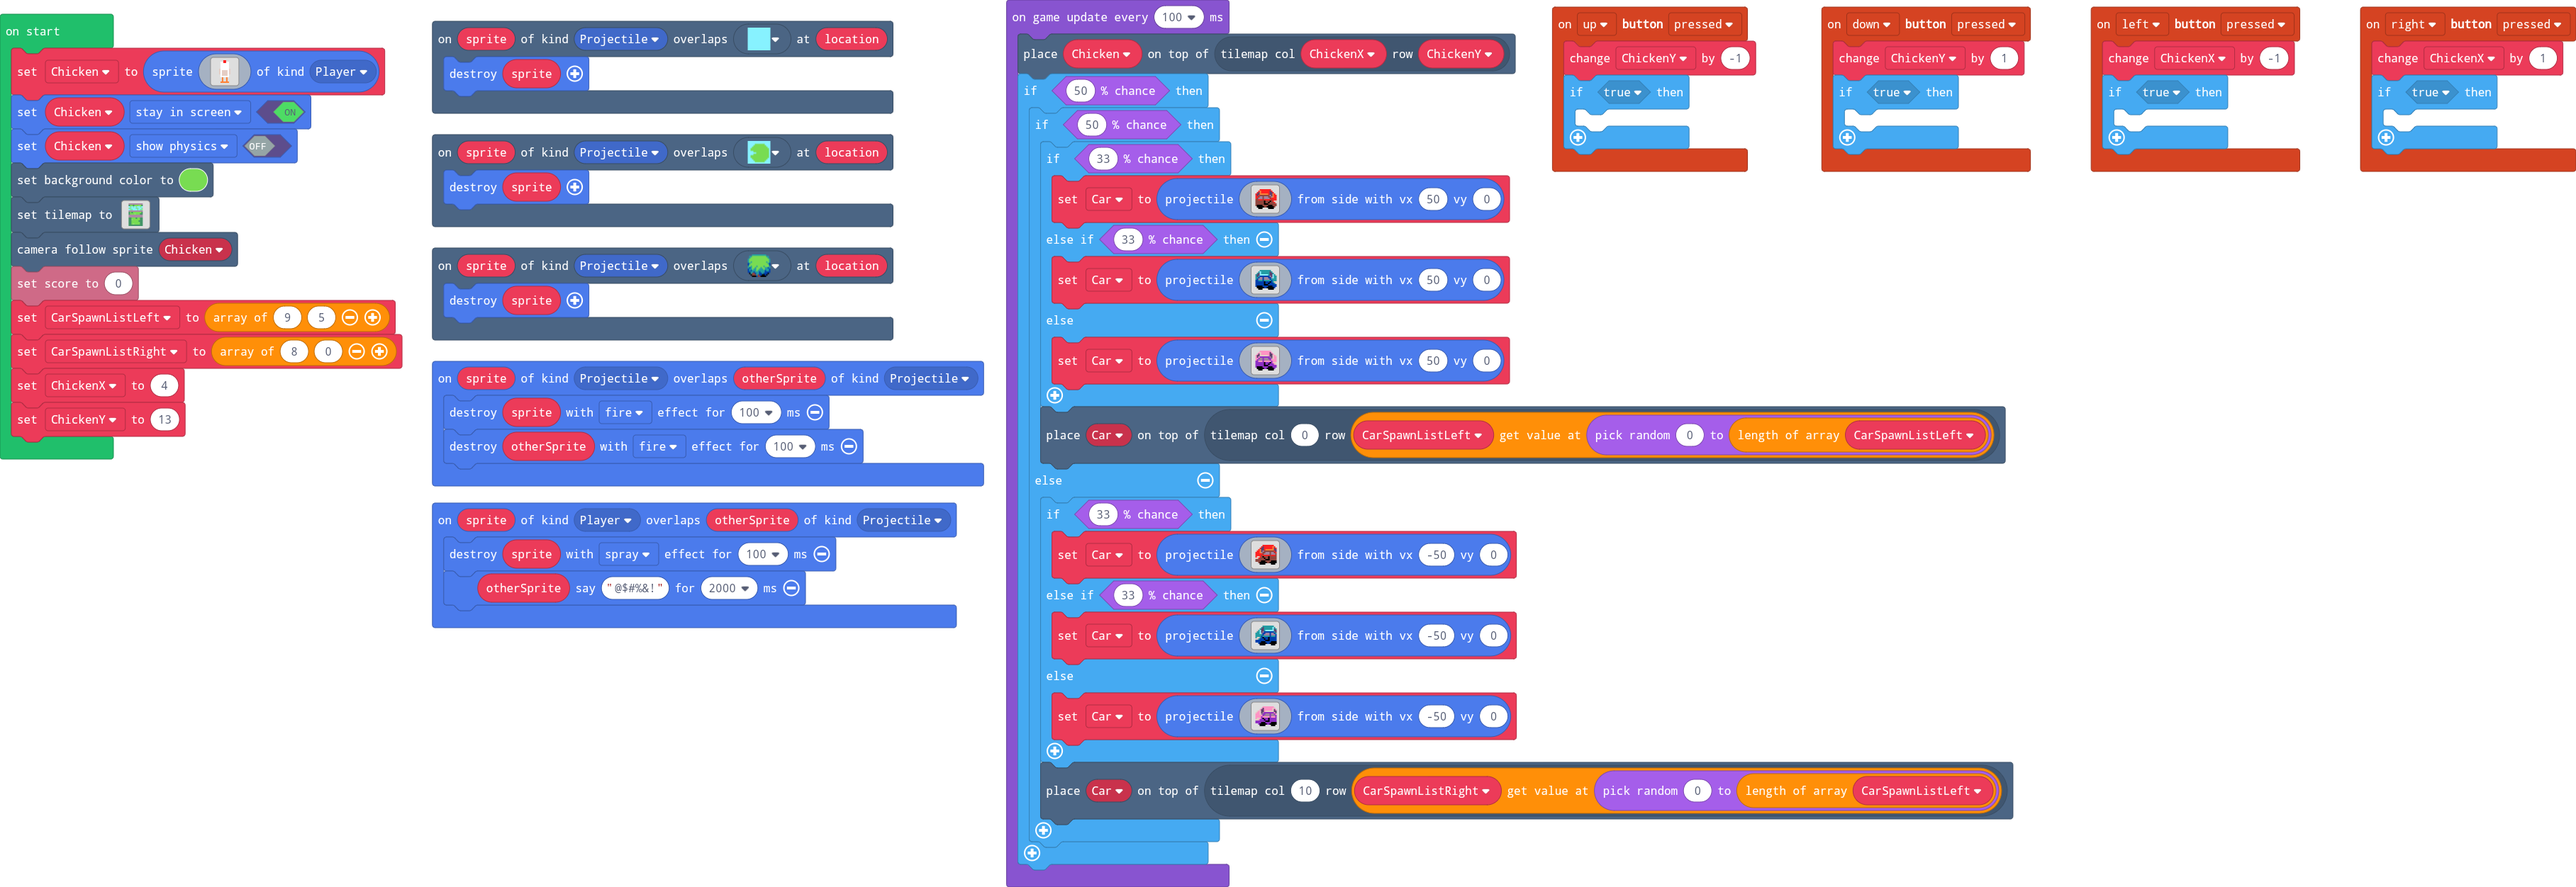
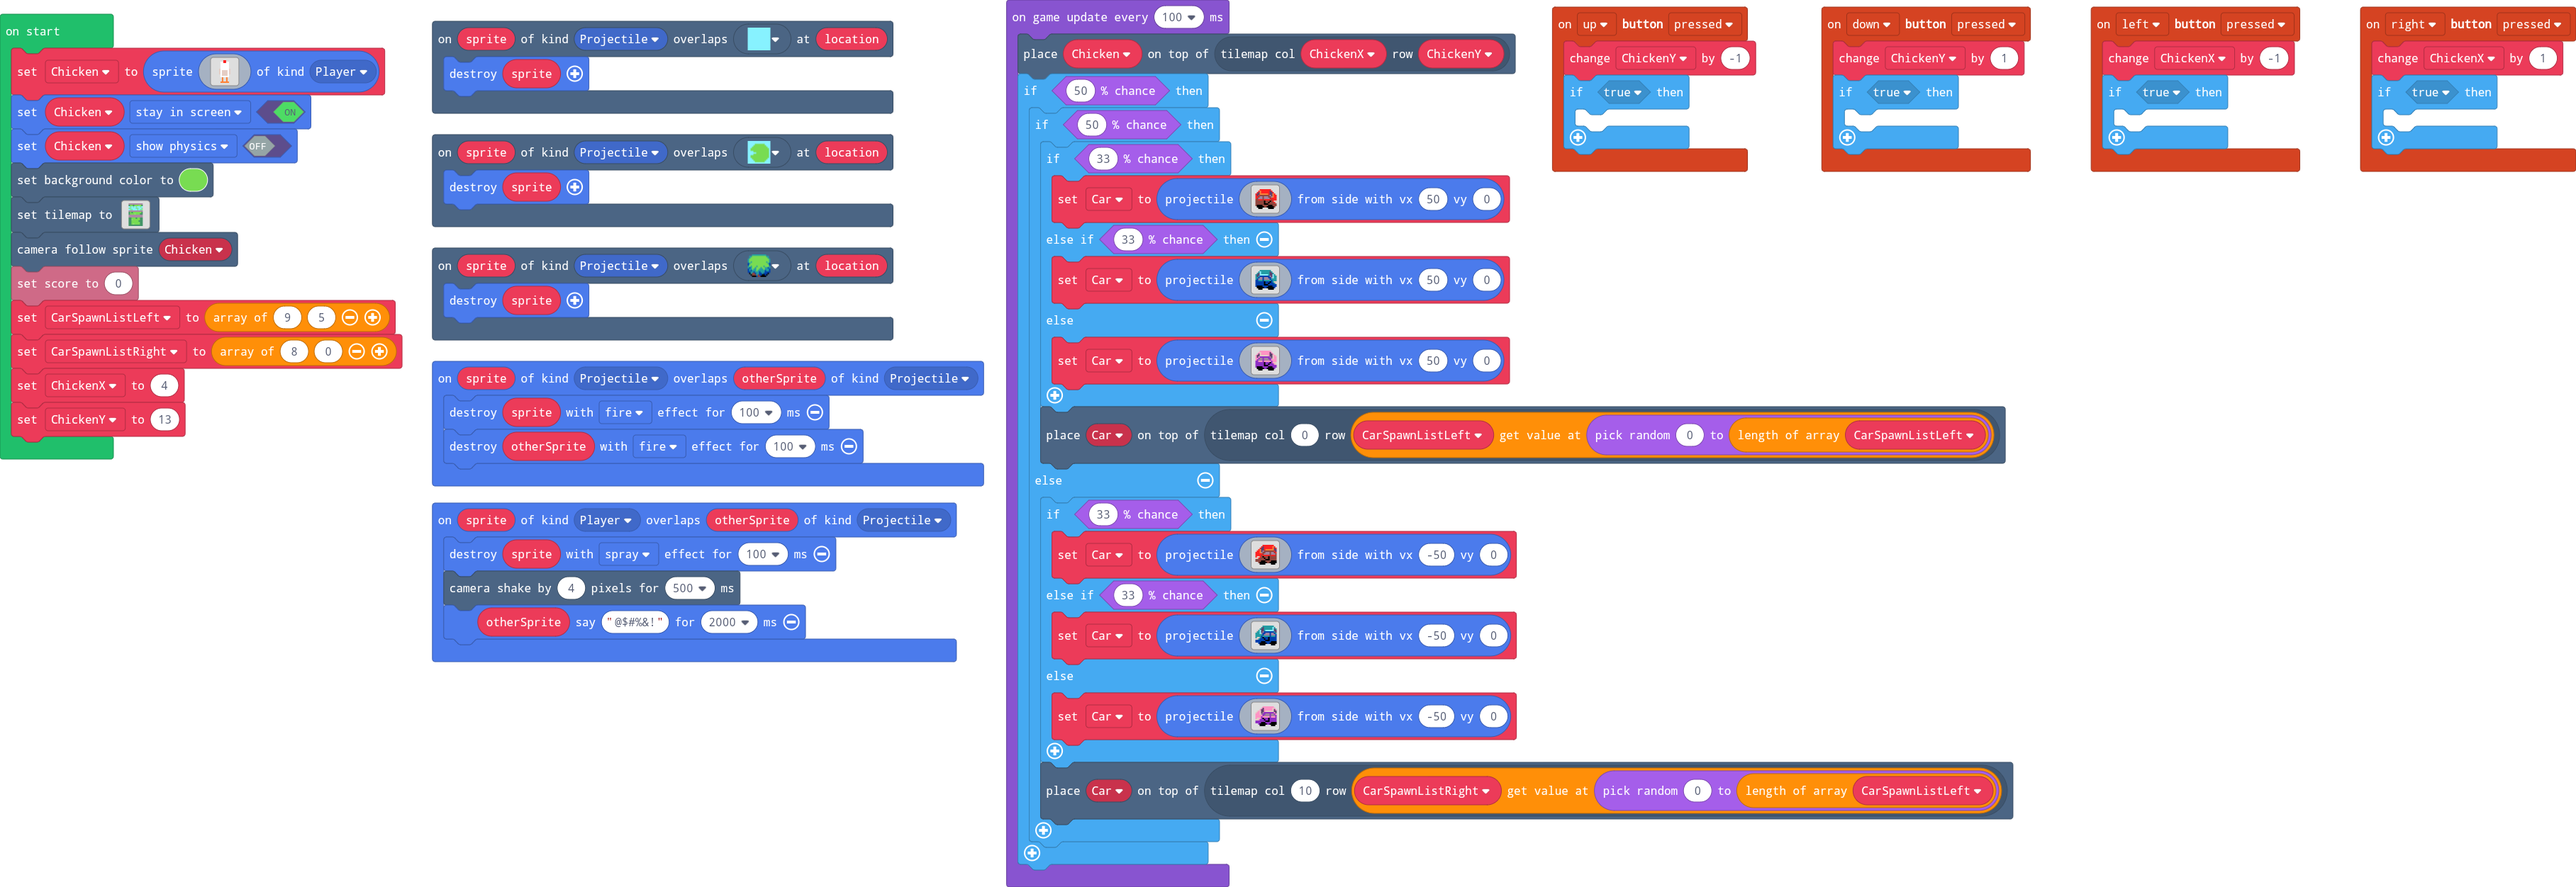
Update main.blocks, main.ts

Changed region(s): [[0.1555, 0.623, 0.3732, 0.7476]]

diff --git a/main.ts b/main.ts
@@ -99,6 +99,7 @@ scene.onOverlapTile(SpriteKind.Projectile, myTiles.tile3, function (sprite, loca
 })
 sprites.onOverlap(SpriteKind.Player, SpriteKind.Projectile, function (sprite, otherSprite) {
     sprite.destroy(effects.spray, 100)
+    scene.cameraShake(4, 500)
     otherSprite.say("@$#%&!", 2000)
 })
 sprites.onOverlap(SpriteKind.Projectile, SpriteKind.Projectile, function (sprite, otherSprite) {
